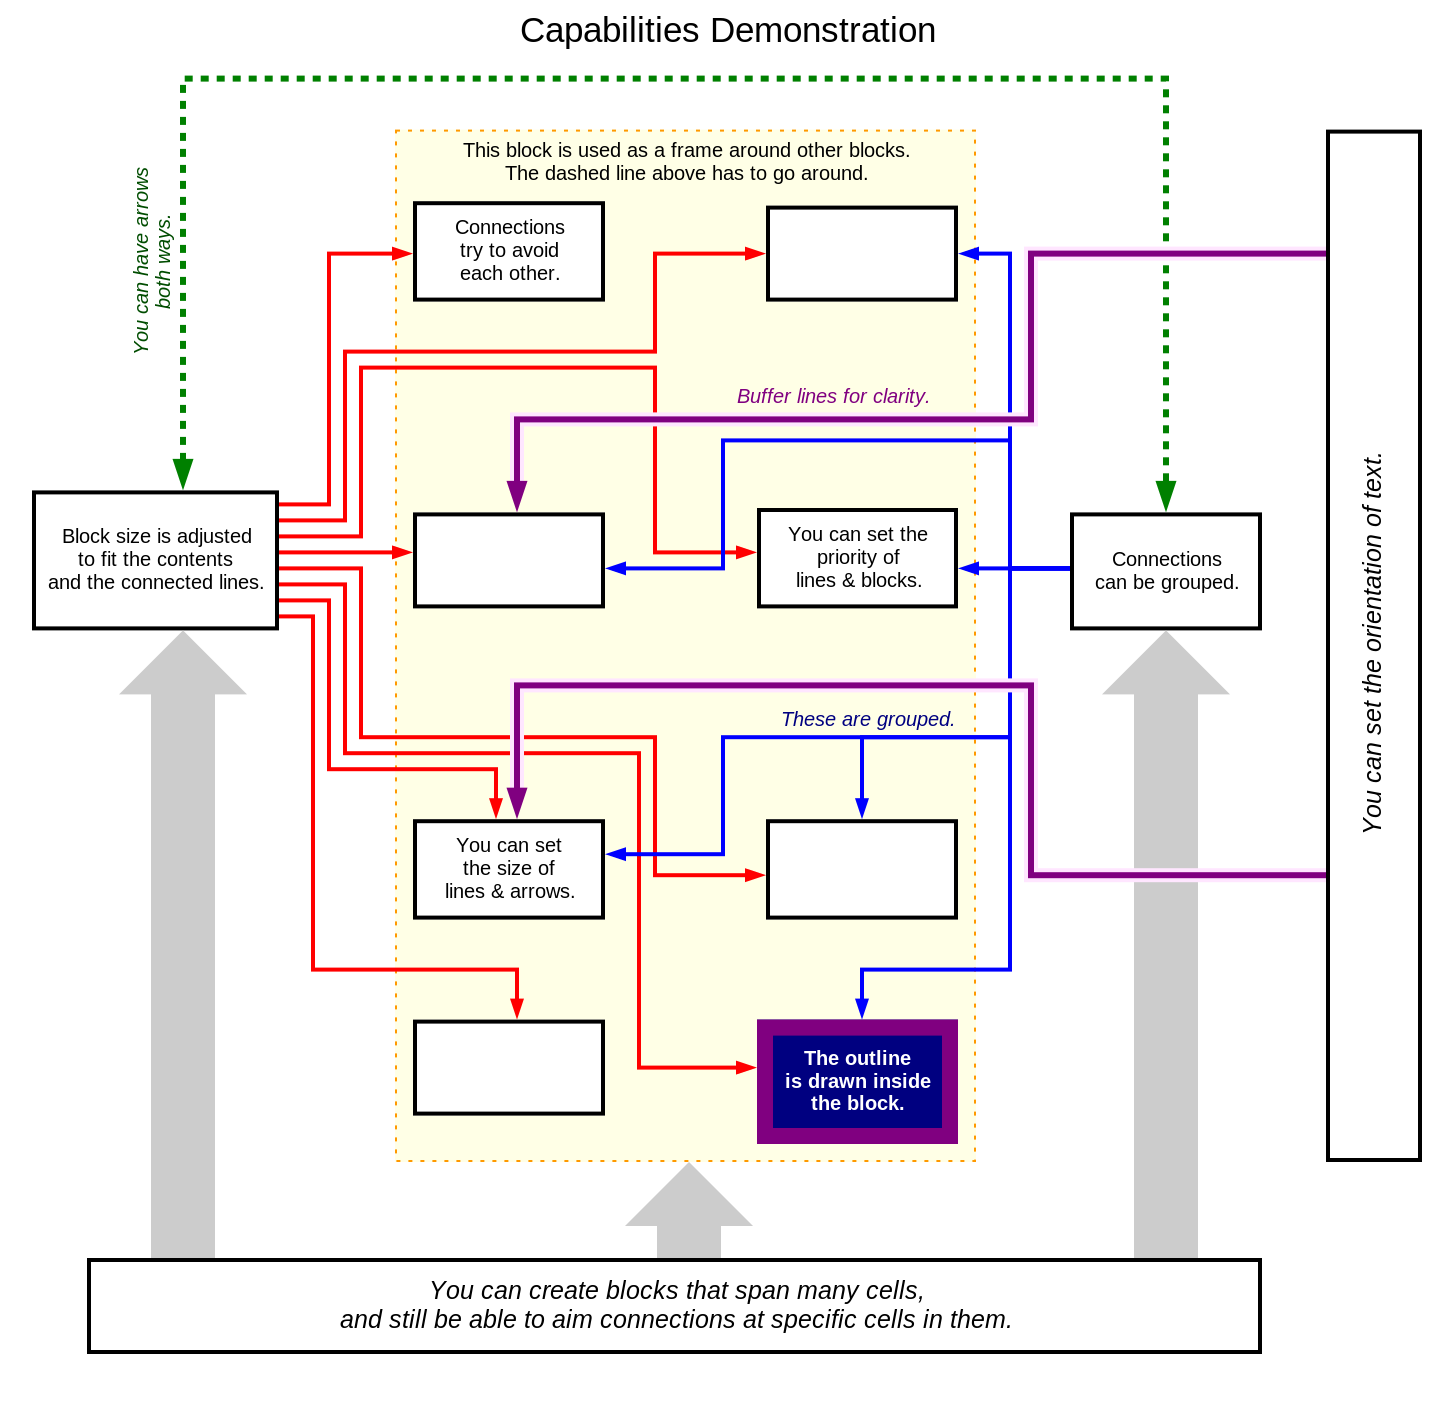
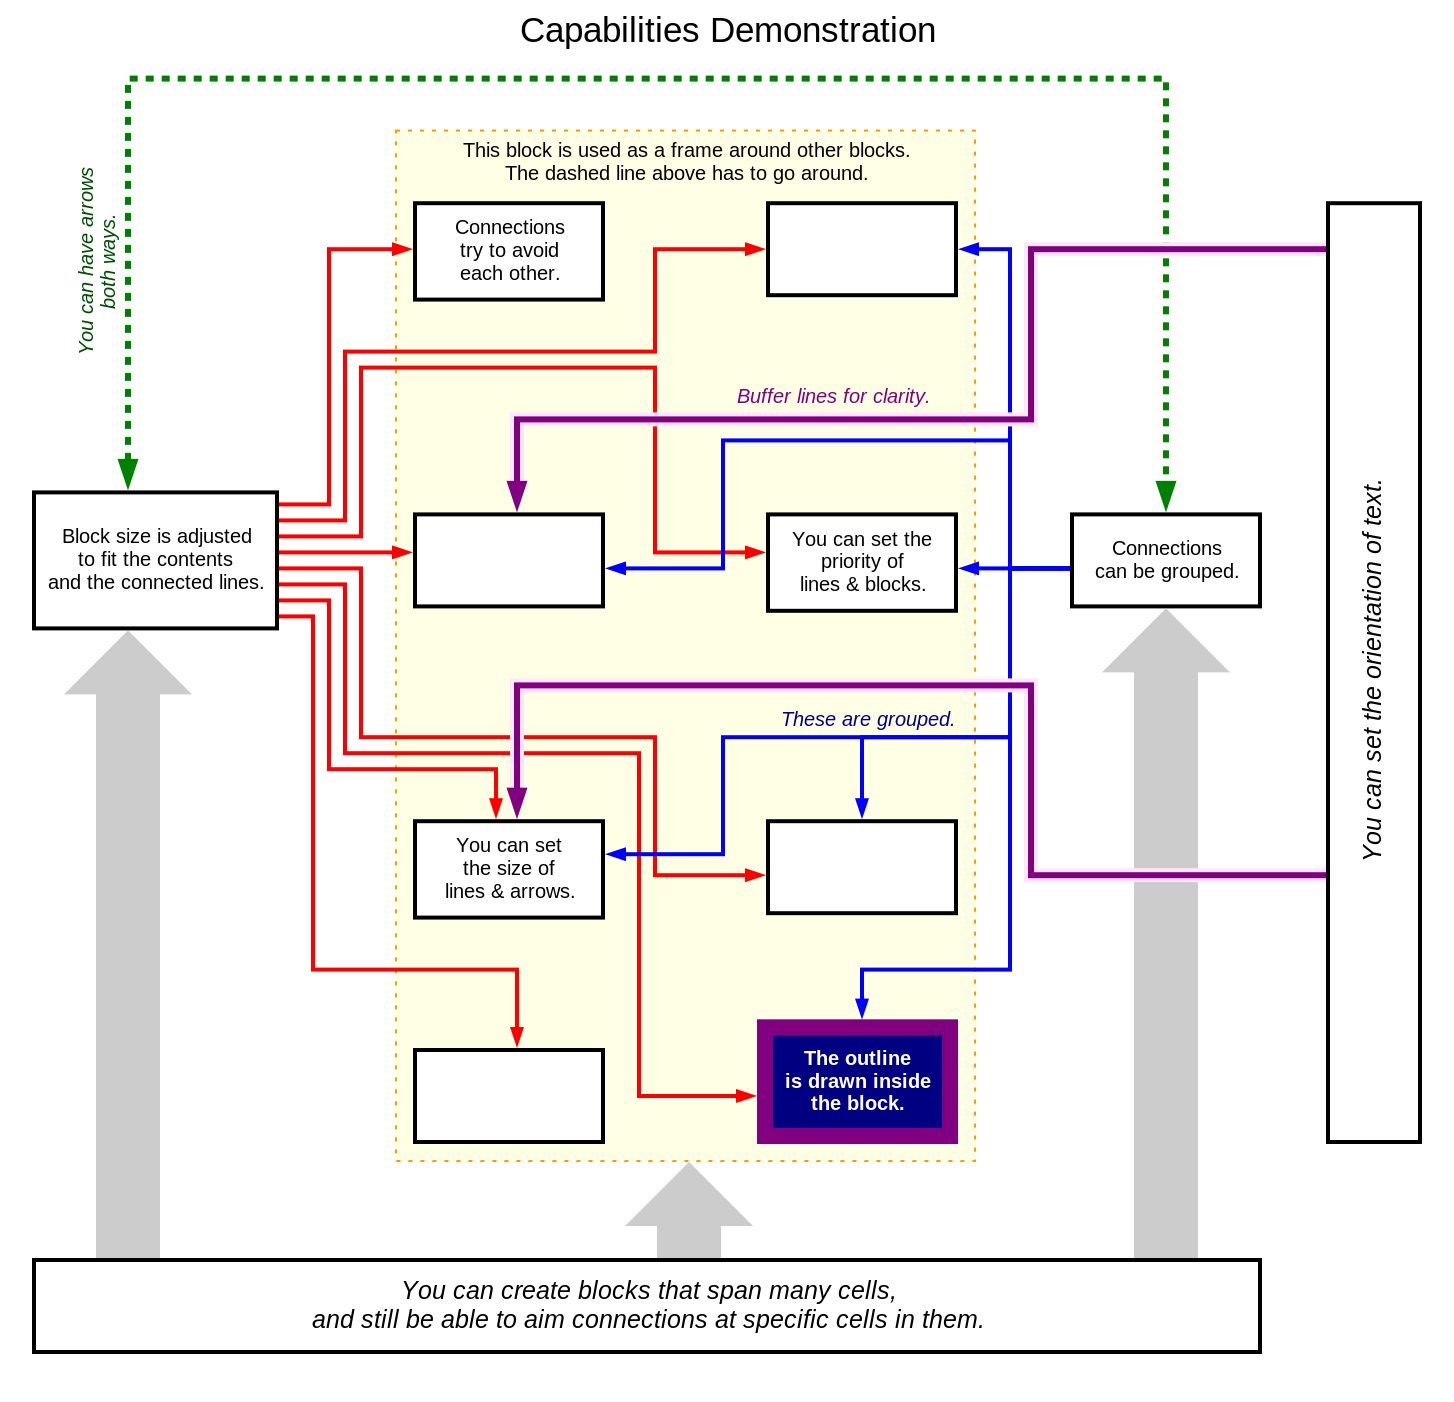
Use optional constraints for block dimensions

diff --git a/orthogram/draw/grid.py b/orthogram/draw/grid.py
@@ -421,12 +421,16 @@ class DrawingGrid:
         return self._horizontal_lines[-1]
 
     def constraints(self) -> Iterator[Constraint]:
-        """Generate constraints for the solver."""
+        """Generate required constraints for the solver."""
         yield from self._line_constraints()
         yield from self._block_box_constraints()
         yield from self._band_constraints()
         yield from self._padding_constraints()
         yield from self._label_constraints()
+
+    def optional_constraints(self) -> Iterator[Constraint]:
+        """Generate optional constraints for the solver."""
+        yield from self._block_box_optional_constraints()
 
     def _line_constraints(self) -> Iterator[Constraint]:
         """Generate the constraints between the lines of the grid."""
@@ -442,9 +446,14 @@ class DrawingGrid:
                 last = line
 
     def _block_box_constraints(self) -> Iterator[Constraint]:
-        """Generate the constraints for the block boxes."""
+        """Generate required constraints for the block boxes."""
         for box in self._block_boxes:
             yield from box.constraints()
+
+    def _block_box_optional_constraints(self) -> Iterator[Constraint]:
+        """Generate optional constraints for the block boxes."""
+        for box in self._block_boxes:
+            yield from box.optional_constraints()
 
     def _band_constraints(self) -> Iterator[Constraint]:
         """Generate constraints for the rows and columns."""

diff --git a/orthogram/draw/blocks.py b/orthogram/draw/blocks.py
@@ -78,7 +78,7 @@ class BlockBox(Container):
         self._vertical_lanes.extend(lanes)
 
     def constraints(self) -> Iterator[Constraint]:
-        """Generate the constraints for the solver."""
+        """Generate required constraints for the solver."""
         # Note that we do not need to introduce size constraints from
         # superclass here, since reference constraints guarantee their
         # satisfaction.
@@ -130,3 +130,14 @@ class BlockBox(Container):
         yield self._ymax <= self._bottom_row.track.cmax - attrs.margin_bottom
         yield self._xmin >= self._left_column.track.cmin + attrs.margin_left
         yield self._xmax <= self._right_column.track.cmax - attrs.margin_right
+
+    def optional_constraints(self) -> Iterator[Constraint]:
+        """Generate optional constraints for the solver."""
+        # Try not to grow beyond the minimum dimensions, if possible.
+        attrs = self._attributes()
+        half_width = 0.5 * attrs.min_width
+        half_height = 0.5 * attrs.min_height
+        yield self._ymin == self._top_row.cref - half_height
+        yield self._ymax == self._bottom_row.cref + half_height
+        yield self._xmin == self._left_column.cref - half_width
+        yield self._xmax == self._right_column.cref + half_width

diff --git a/orthogram/draw/drawing.py b/orthogram/draw/drawing.py
@@ -11,7 +11,7 @@ from cairo import (
     ImageSurface,
 )
 
-from cassowary import SimplexSolver # type: ignore
+from cassowary import SimplexSolver, WEAK # type: ignore
 from shapely.geometry import LineString # type: ignore
 
 from ..arrange import Layout
@@ -96,6 +96,8 @@ class Drawing(Container):
         add_constraint = self._solver.add_constraint
         for constraint in self._grid.constraints():
             add_constraint(constraint)
+        for constraint in self._grid.optional_constraints():
+            add_constraint(constraint, strength=WEAK)
 
     def _add_own_constraints(self) -> None:
         """Add the constraints for the drawing itself."""

diff --git a/orthogram/__init__.py b/orthogram/__init__.py
@@ -1,6 +1,6 @@
 """Draw block diagrams."""
 
-__version__ = '0.5.0'
+__version__ = '0.5.1'
 
 from .define import (
     Builder,

diff --git a/docs/release.rst b/docs/release.rst
@@ -1,6 +1,12 @@
 Release history
 ===============
 
+0.5.1 (2021-04-30)
+------------------
+
+* Added optional constraints to prevent block boxes from growing
+  unnecessarily large.
+
 0.5.0 (2021-04-24)
 ------------------
 
